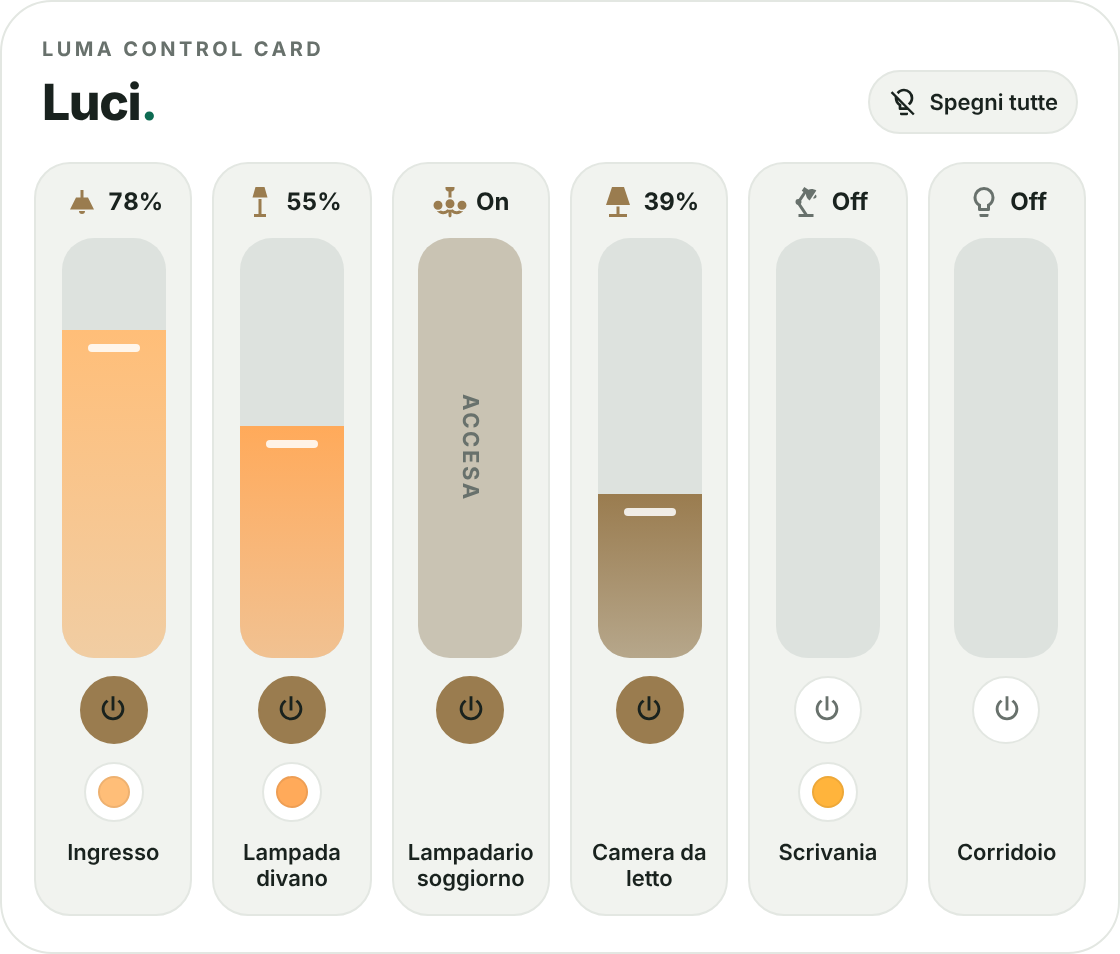
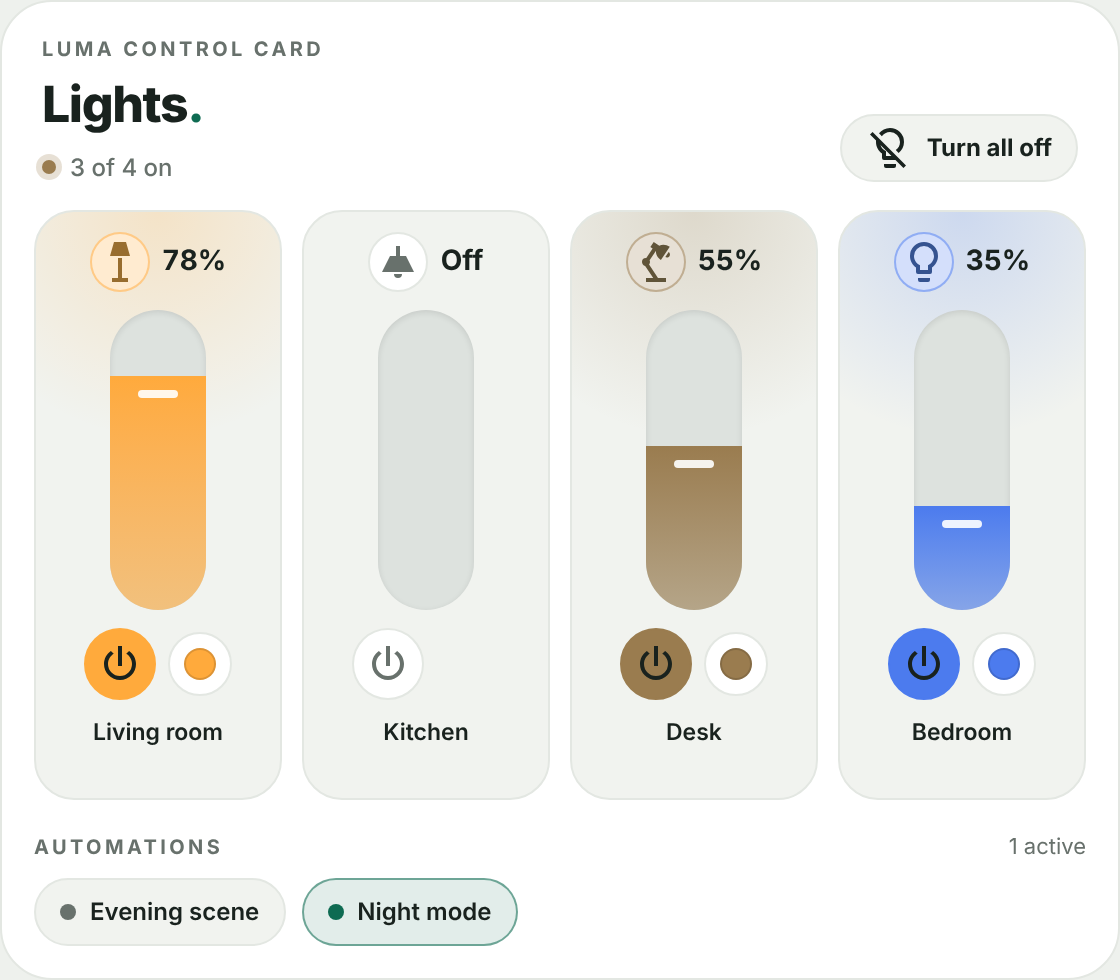
Update README: card styles, language option, new popup

diff --git a/README.md b/README.md
@@ -9,7 +9,7 @@
 
 **Luma Control Card** is a custom lighting control card for Home Assistant dashboards, designed with a minimalist interface inspired by the Edera Light and Graphite Dark visual styles.
 
-It shows multiple lights as vertical brightness faders in a compact, responsive layout. Color, color temperature, timer, and automations for each light are available in its details popup.
+It shows your lights in one of three styles (vertical faders, horizontal bars, or glowing tiles) in a compact, responsive layout that adapts to the number of lights. Color, color temperature, timer, and automations for each light are available in a fixed-size details popup. The interface is available in Italian, English, German, and French.
 
 The card uses existing Home Assistant entities and services. No dedicated account, paid API, additional cloud service, or Edera theme installation is required.
 
@@ -21,14 +21,16 @@ The card uses existing Home Assistant entities and services. No dedicated accoun
 
 ![Luma Control Card details popup in Light mode](assets/luma-control-card-popup-light.png)
 
-*Previews use fictional demo data. Available controls depend on the configured lighting entities and their supported capabilities. The interface text is currently in Italian.*
+*Previews use fictional demo data. Available controls depend on the configured lighting entities and their supported capabilities.*
 
 ## Features
 
-- Vertical brightness faders, one per `light.*` entity, with a dedicated on/off button.
+- Three card styles: vertical faders, horizontal bars, or tiles with a glow. The layout stays compact with only one or two lights.
+- One `light.*` entity per light, with a dedicated on/off button.
 - Tapping a fader never changes the level: brightness changes only by dragging, and a light is never turned on by accident.
-- Navigation arrows when the lights do not fit the available width.
-- Details popup for each light with status, RGB color wheel and presets, color temperature, optional timer, and its automations.
+- Navigation arrows in the fader style when the lights do not fit the available width.
+- Fixed-size details popup with an On/All filter and one expandable section per light: status, RGB color wheel and presets, color temperature, optional timer, and its automations. On wide screens the lights are shown in columns.
+- Interface in Italian, English, German, and French, selected automatically from the Home Assistant language or set manually.
 - Per-light automations with individual enable/disable controls.
 - Optional card-level automation buttons below the lights.
 - Optional ambient glow, and options to hide the header eyebrow and the title.
@@ -71,15 +73,15 @@ Install Luma Control Card directly from the default Marketplace catalog in Home 
 The visual editor includes four sections:
 
 - **Devices:** Select `light.*` entities, customize names and optional MDI icons, reorder devices, assign automations to each light, or remove them.
-- **Appearance:** Configure the title, header, theme, and ambient glow.
+- **Appearance:** Choose the card style, title, header, theme, language, and ambient glow.
 - **Automations:** Optionally associate existing `automation.*` entities as buttons on the card.
 - **Advanced:** Enable or disable the card's controls.
 
 ### Lighting Controls
 
-Each light is shown as a vertical fader. Drag it to set the brightness, or use the arrow keys when it is focused. Tapping the fader does not change the level. Use the power button below it to turn the light on or off.
+Each light has a brightness slider (a fader, a bar, or a tile slider, depending on the chosen style). Drag it to set the brightness, or use the arrow keys when it is focused. Tapping the slider does not change the level. Use the power button to turn the light on or off.
 
-**Details and status** opens the details popup, where color, color temperature, timer, and the light's automations are available when supported by the light and the configuration.
+The round details button next to the power button opens the details popup, where color, color temperature, timer, and the light's automations are available when supported by the light and the configuration. Use the **On / All** filter to choose which lights are listed.
 
 The **Turn off all** button switches off the configured lights without disabling their associated automations.
 
